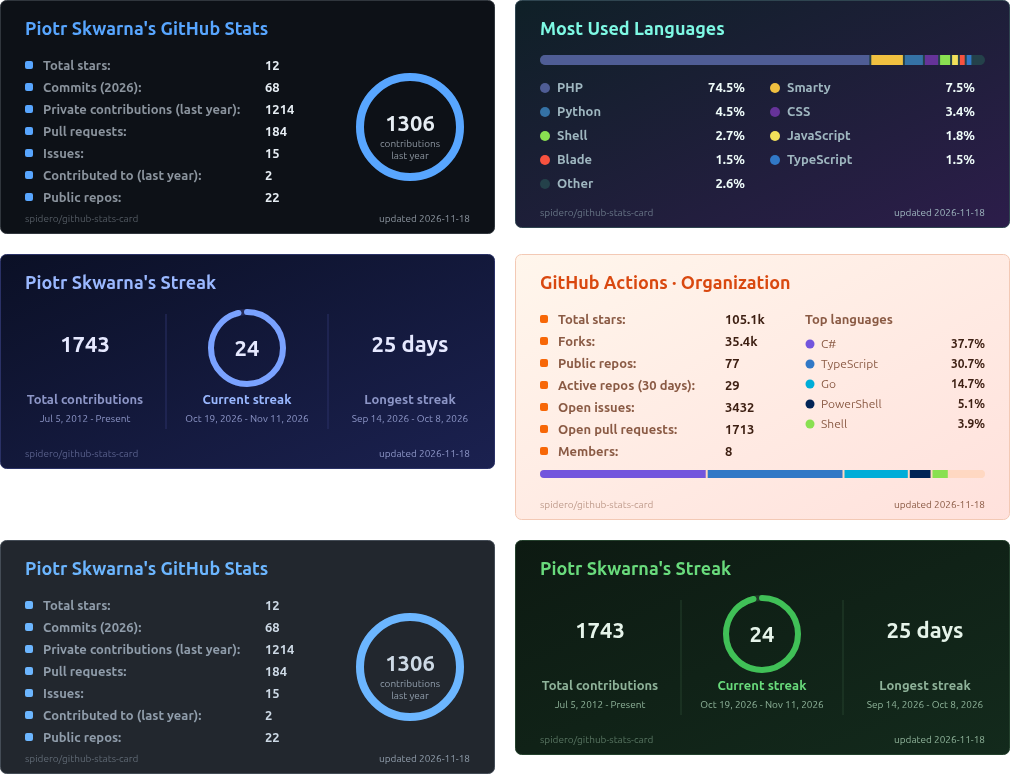
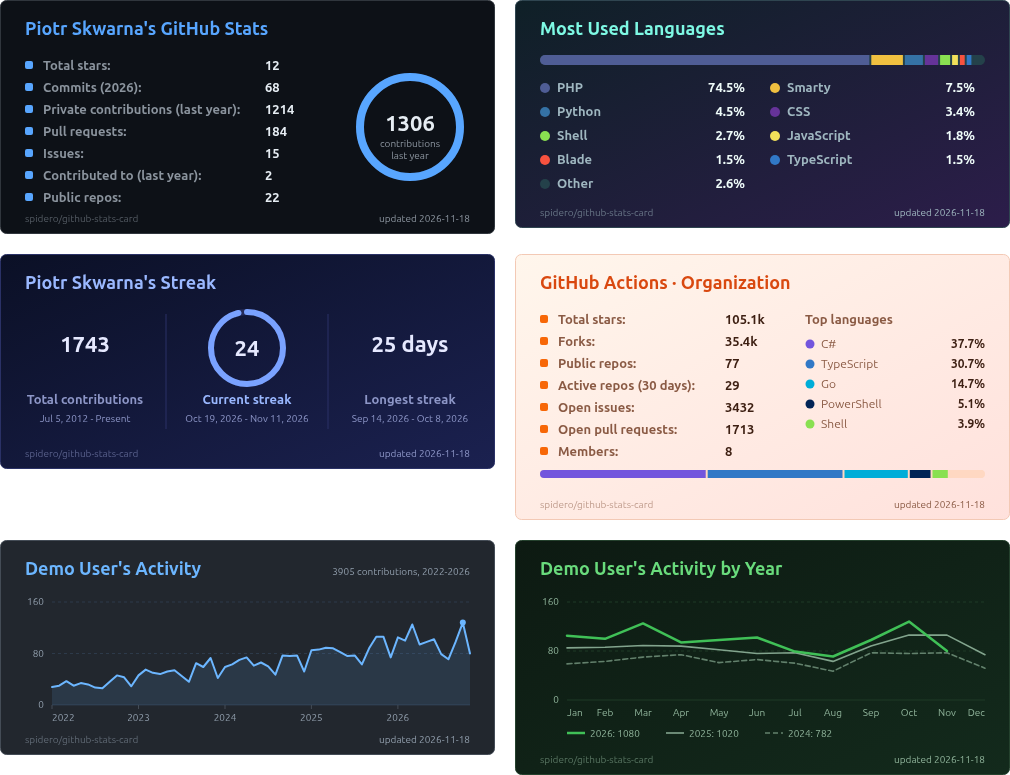
README showcase: one of each card, activity in both styles

diff --git a/README.md b/README.md
@@ -7,7 +7,7 @@
 GitHub stats cards for your profile README, generated by GitHub Actions **in your own repository**.
 No hosted service that can be paused or rate-limited, no dependencies: plain Python (stdlib) + the GitHub GraphQL API.
 
-<img alt="Cards: stats, languages, streak and organization in several themes" src="docs/showcase.png" width="100%">
+<img alt="Cards: stats, languages, streak, organization and activity (both styles) in several themes" src="docs/showcase.png" width="100%">
 
 ## Cards
 
